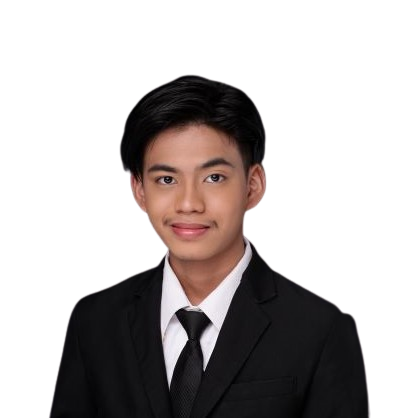
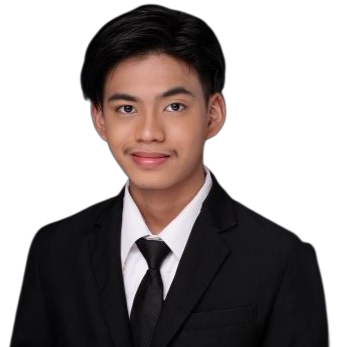
Crop siegfred.jpg, and make the grid responsive
The grid was made responsive by changing the overflow auto from column
to row when on devices with smaller display width.

diff --git a/css/styles.css b/css/styles.css
@@ -20,25 +20,47 @@ html {
   width: 100vw;
   height: 90vh;
   display: grid;
-  grid-template-columns: 2fr 1fr;
-
+  grid-auto-flow: column;
 }
+
+
+
 
 header > .top-nav {
   height: 10vh;
 }
 
-.home > .image-sieg-container > .image-sieg {
+.home > .image-sieg-container {
+  width: 100%;
+}
 
+.home > .image-sieg-container > .image-sieg {
+  
   /* filter: grayscale(1.0); */
   opacity: 0.6;
-  height: 100%;
+  height: 90%;
+  /* padding-bottom: 5%; */
   width: auto;
-  object-position: position;
-  float: right;
-
+  /* max-width: 100%; */
+  /* object-position: position; */
+  /* object-fit: cover; */
+  margin: 0 0 0 auto;
+  display: block;
+  
 }
 
 .top-nav {
+  
+}
 
+
+
+
+@media screen and (max-width: 600px) {
+  .home {
+    grid-auto-flow: row;
+  }
+  .home > .image-sieg-container > .image-sieg {
+    margin: 0 auto;
+  }
 }
